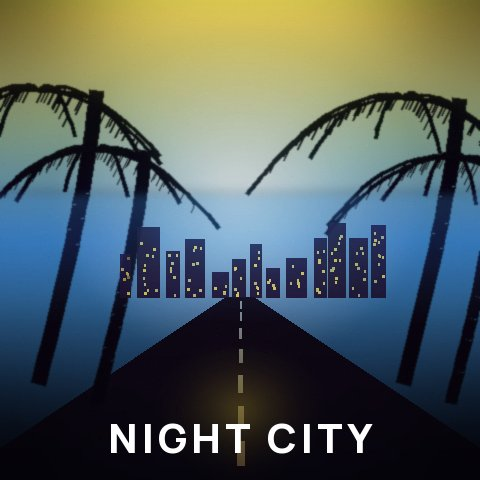
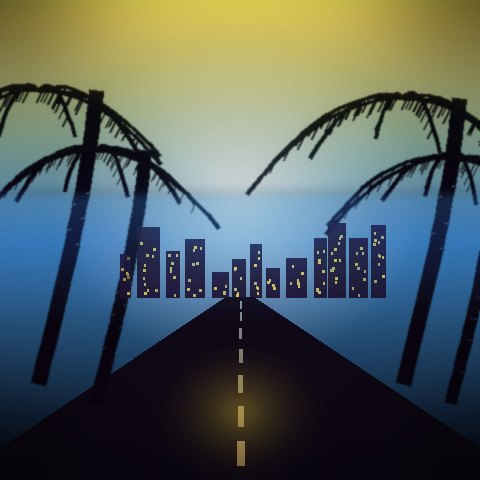
fix(home): drop Play pill (2020 ref), clean tile art, art window 198; fix(ci): run screenshot capture off the main thread

Changed region(s): [[0.2188, 0.8438, 0.5312, 0.9688], [0.5625, 0.875, 0.7812, 0.9688], [0.4688, 0.7812, 0.5312, 0.8125]]

diff --git a/ps5sim/app/src/main/java/com/kaizer/ps5simulator/ui/home/HomeScene.kt b/ps5sim/app/src/main/java/com/kaizer/ps5simulator/ui/home/HomeScene.kt
@@ -243,13 +243,6 @@ class HomeScene(private val engine: Engine, gameId: String, startTab: Int = 0) :
         // 7 — must see carousel ----------------------------------------------------
         drawMustSee(f, fade)
 
-        // 8 — bottom hint ----------------------------------------------------------
-        if (engine.settings.showHints) {
-            val size = m.textPx(20f)
-            val cy = m.heightPx - m.px(18f)
-            ui.line(c, "Press PS button  ·  Control Center", m.widthPx / 2f, cy, size,
-                Ui.a(Tok.TextSecondary, 0.42f), Ui.Weight.Medium, align = Paint.Align.CENTER)
-        }
 
         // reveal curtain (home opens with a fade-through-black on console)
         if (reveal < 1f) {
@@ -272,7 +265,7 @@ class HomeScene(private val engine: Engine, gameId: String, startTab: Int = 0) :
         val ui = f.ui
         ui.rect(c, 0f, 0f, m.widthPx, m.heightPx, 0xFF04050A.toInt())
         if (g == null) return
-        val artTop = m.px(146f)
+        val artTop = m.px(198f)
         val artBottom = m.heightPx - m.px(Ref.MUSTSEE_CARD_H) - m.px(64f)
         val bmp = Art.get(g.artwork, (m.widthPx).toInt(), (artBottom - artTop).toInt().coerceAtLeast(64))
         if (bmp != null) {
@@ -328,33 +321,14 @@ class HomeScene(private val engine: Engine, gameId: String, startTab: Int = 0) :
             val meta = if (plays == 0) "New to console · ${g.genre}" else "Played ${plays * 2 + 1} h ago · ${g.genre}"
             ui.line(c, meta, left, metaY, metaSize, Ui.a(Tok.TextPrimary, 0.86f), Ui.Weight.Medium)
 
-            // Play + more buttons
-            val btnY = metaY + m.px(24f)
-            val bw = m.px(Ref.PLAY_BUTTON_W)
-            val bh = m.px(Ref.PLAY_BUTTON_H)
-            ui.rect(c, left, btnY, left + bw, btnY + bh, 0x2EFFFFFF.toInt(), bh / 2f)
-            ui.rectOutline(c, left, btnY, left + bw, btnY + bh, 0x40FFFFFF.toInt(), bh / 2f, 2f)
-            val lblSize = m.textPx(Ref.PLAY_BUTTON_LABEL)
-            val tri = lblSize * 0.52f
-            val textW = ui.measure("Play", lblSize, Ui.Weight.Bold)
-            val groupW = tri * 2f + lblSize * 0.55f + textW
-            val gx = left + bw / 2f - groupW / 2f
-            val cy = btnY + bh / 2f
-            Icons.draw(c, Glyph.Play, gx + tri, cy, tri * 2f, 0xFFFFFFFF.toInt(), 0f)
-            ui.line(c, "Play", gx + tri * 2f + lblSize * 0.55f, cy + lblSize * 0.36f, lblSize,
-                0xFFFFFFFF.toInt(), Ui.Weight.Bold)
-            engine.hits.add(left, btnY, left + bw, btnY + bh, 9500) { engine.openHub(g.id) }
-
-            val mbx = left + bw + m.px(Ref.CTA_GAP)
-            val mbs = m.px(Ref.MORE_BUTTON_SIZE)
-            ui.circle(c, mbx + mbs / 2f, cy, mbs / 2f, 0x2EFFFFFF.toInt())
-            ui.rectOutline(c, mbx, cy - mbs / 2f, mbx + mbs, cy + mbs / 2f, 0x40FFFFFF.toInt(), mbs / 2f, 2f)
-            for (i in -1..1) {
-                ui.circle(c, mbx + mbs / 2f + i * mbs * 0.20f, cy, mbs * 0.055f, 0xFFFFFFFF.toInt())
-            }
-            engine.hits.add(mbx, cy - mbs / 2f, mbx + mbs, cy + mbs / 2f, 9501) {
-                engine.openHub(g.id)
-            }
+            // The 2020 launch interface has no launch button on Home: tapping the
+            // artwork or the selected tile opens the Game Hub, where Play lives.
+            val hintY = metaY + m.px(40f)
+            ui.line(c, "Press  Play  on the tile to open the game hub", left, hintY,
+                m.textPx(20f), Ui.a(Tok.TextSecondary, 0.0f), Ui.Weight.Medium)
+            // invisible wide tap target over the artwork opens the hub
+            engine.hits.add(left, m.px(220f), m.widthPx * 0.72f,
+                m.heightPx - m.px(Ref.MUSTSEE_CARD_H + 80f), 9502) { engine.openHub(g.id) }
         }
     }
 

diff --git a/ps5sim/app/src/main/java/com/kaizer/ps5simulator/ci/ShotRunner.kt b/ps5sim/app/src/main/java/com/kaizer/ps5simulator/ci/ShotRunner.kt
@@ -42,6 +42,12 @@ class ShotRunner : Instrumentation() {
     }
 
     override fun onStart() {
+        // onCreate/onStart run on the app's main thread; blocking there would prevent
+        // activities from launching, so the whole capture pass runs on a worker.
+        Thread({ runCapture() }, "shot-runner").start()
+    }
+
+    private fun runCapture() {
         val results = StringBuilder()
         val outDir = File(targetContext.getExternalFilesDir(null), "shots")
         outDir.mkdirs()

diff --git a/ps5sim/tools/gen_assets.py b/ps5sim/tools/gen_assets.py
@@ -665,23 +665,12 @@ def make_game_assets(g):
     sd.rectangle([0, 0, 512 - 1, 512 - 1], outline=(255, 255, 255, 26), width=2)
     cov = Image.alpha_composite(cov.convert("RGBA"), strip).convert("RGB")
     cov.save(os.path.join(out, "cover.jpg"), quality=88, optimize=True, progressive=True)
-    # ---- card 480x480 (tighter art, short word only)
+    # ---- card 480x480: clean square key-art crop for the switcher strip.
+    #      No typography here — the console draws the tile label in the UI layer.
     card, _ = scene(g, 480, 480, 21)
     card = finish(card, 480, 480)
-    card = bottom_shade(card, 0.40, 170)
-    d = ImageDraw.Draw(card, "RGBA")
-    wd = g[11]
-    f = F(800, int(480 * 0.085))
-    while d.textlength(wd, font=f) > 480 * 0.86 and f.size > 10:
-        f = F(800, f.size - 2)
-    # letter-spaced word
-    sp = f.size * 0.10
-    tw = sum(d.textlength(c, font=f) + sp for c in wd) - sp
-    cx = (480 - tw) / 2
-    for ch in wd:
-        d.text((cx, 480 * 0.855), ch, font=f, fill=(255, 255, 255, 246))
-        cx += d.textlength(ch, font=f) + sp
-    card.save(os.path.join(out, "card.jpg"), quality=85, optimize=True, progressive=True)
+    card = bottom_shade(card, 0.22, 90)
+    card.save(os.path.join(out, "card.jpg"), quality=86, optimize=True, progressive=True)
     # ---- screenshots
     for k in range(3):
         sc, _ = scene(g, 800, 450, 40 + k * 7)
